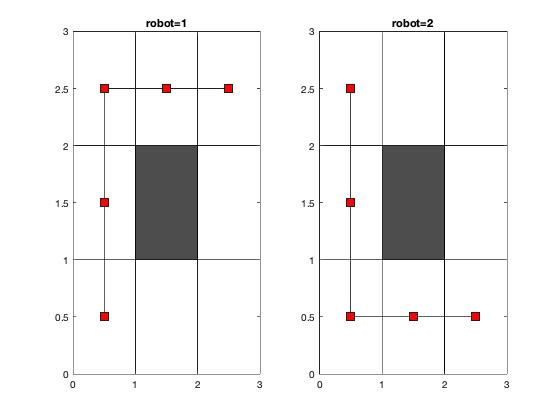
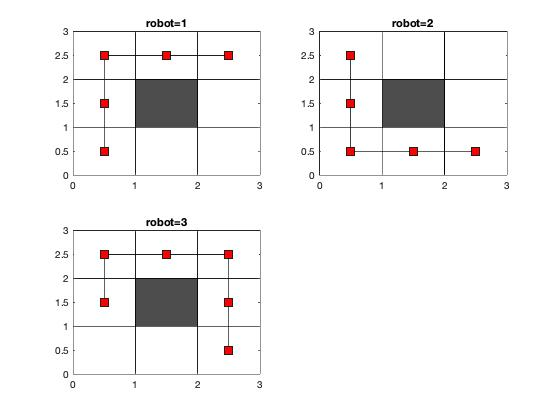
Version1.2 3ROB

diff --git a/plotdynamic.m b/plotdynamic.m
@@ -3,9 +3,12 @@ function plotdynamic(D,PathStore,Path_num,RobotNum,Start,Goal)
 m=size(D,1);
 [X,Y]=spread(Start,m);
 [X_F,Y_F]=spread(Goal,m);
-video = VideoWriter('simulation_2ROB_Version1.1','MPEG-4');
+video = VideoWriter('simulation_2ROB_Version1.2','MPEG-4');
 video.FrameRate=2;
 open(video);
+
+ax = gca();
+
 globaltime = 0;
 
 MAX=0;
@@ -45,7 +48,6 @@ for loop=1:10000
         break;
     end
     frame = getframe;
-    writeVideo(video,frame);
     pause(0.5);
     cla;
     
@@ -70,18 +72,13 @@ for loop=1:10000
            end
         end
     end
-    
-%     plot(AllRobotState-1/2,'ks','MarkerFaceColor','r','MarkerSize',10)
-    
-%     for i=1:RobotNum
-%         if  ~isempty(PathStore{i,1})
-%            AllRobotState(PathStore{i,1}(loop,1),PathStore{i,1}(loop,2)) = 0;
-%         end
-%     end
-    globaltime = globaltime + 1;
+  
+    writeVideo(video,getframe(ax))
+    globaltime = globaltime + 1;  
 end
 
 disp('系统总消耗时刻：')
 disp(globaltime);
 disp(loop);
+% close(gca);
 close(video);

diff --git a/main_one_way.m b/main_one_way.m
@@ -3,8 +3,8 @@ clc;
 D = load('dist_map.txt'); 
 m = size(D,1);
 % 判断是否存在起始点在障碍物处的情况
-Start = [1,3];
-Goal = [9,7];
+Start = [1,3,4];
+Goal = [9,7,3];
 RobotNum = size(Start,2);
 size_D=size(D,1);
 
@@ -19,7 +19,7 @@ mapdesigner(fliplr(D),2);
 show=ceil(sqrt(RobotNum));
 
 for i = 1:RobotNum
-        mapdesigner_show(fliplr(D),i,show,1); % 最后一个参数控制行数 是否需要-1
+        mapdesigner_show(fliplr(D),i,show,0); % 最后一个参数控制行数 是否需要-1
         plot((PathStore{i}(:,2)-1/2),(PathStore{i}(:,1)-1/2),'-ks','MarkerFaceColor','r','MarkerSize',10) ;% 将所有机器人的路径显示在图中。
         str=['robot=',num2str(i)];
         title(str);

diff --git a/README.md b/README.md
@@ -6,7 +6,7 @@
 ## 仿真平台：Intel I7 RAM 16G - Matlab for mac
 ## 到目前为止的效果：  
 
-![images](https://github.com/HUOJIAXI/GraduationProject/blob/master/Result_one_way/simulation_2ROB_Version1.1.gif)
+![images](https://github.com/HUOJIAXI/GraduationProject/blob/master/Result_one_way/simulation_3ROB_Version1.2.gif)
 
 ## Version: 1.0 02/02/2020
 Author: HUO JIAXI. 
@@ -295,8 +295,16 @@ Author: HUO JIAXI
 ## Version 1.2
 Author: HUO JIAXI
 
-1.2版本提高了通用性，改变了方向的表达方式，由1.1版本的1和-1改为1和2，以方便巷道方向的框定：每个巷道点对于所有机器人（目前为2）的方向之和不等于3，即机器人在同一巷道中不可反向
+1.2版本提高了通用性，改变了方向的表达方式，由1.1版本的1和-1改为1和2，以方便巷道方向的框定：每个巷道点对于所有机器人（目前为2）的方向之和不等于3，即机器人在同一巷道中不可反向。并且通过增加机器人的个数证明其通用性。运行时间比双机器人时增加了1.5s左右，在可接受范围内。
+
+1.2版本修复了视频生成中存在的帧数会发生变化的问题。
 
 ![images](https://github.com/HUOJIAXI/GraduationProject/blob/master/Result_one_way/Version1.2_one_way.jpg)
 
+双机器人： 
+
 ![images](https://github.com/HUOJIAXI/GraduationProject/blob/master/Result_one_way/Version1.1.png)
+
+三机器人：
+
+![images](https://github.com/HUOJIAXI/GraduationProject/blob/master/Result_one_way/Version1.2.png)
